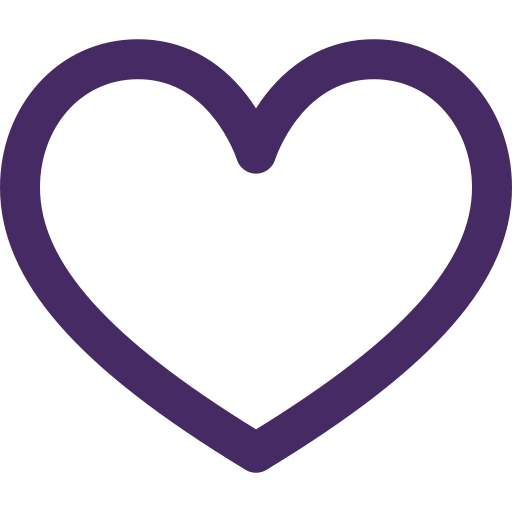
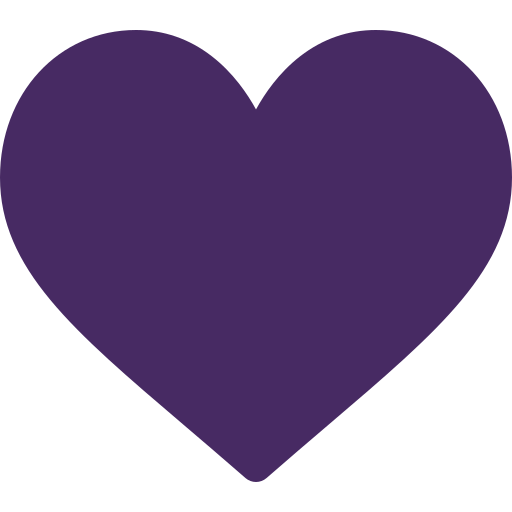
pintar like

diff --git a/src/components/Home.js b/src/components/Home.js
@@ -1,5 +1,5 @@
 import {
-  savePost, getPosts, deletePost, getPost, updatePost, addLike,
+  savePost, getPosts, deletePost, getPost, updatePost, addLike, disLike,
 } from '../lib/functionFirebase';
 
 export const Home = (onNavigate) => {
@@ -76,7 +76,7 @@ export const Home = (onNavigate) => {
 
       .then(() => {
       // console.log("adentro del then")
-        window.location.reload()
+        window.location.reload();
       });
     // console.log("afuera del then")
   };
@@ -111,7 +111,7 @@ export const Home = (onNavigate) => {
           </div>
             <textarea disabled class='textarea' id="${doc.id}" rows='4' >${publicacion.post}</textarea>
           <div class='divIconsFeed'>
-          ${publicacion.likes.length}<img class='iconoForm icon-like'  data-id="${doc.id}"  src='img/like.png'>
+          ${publicacion.likes.length}<img class='iconoForm icon-like'  data-id="${doc.id}"  src='img/dislike.png'>
            <img class='iconoForm' src='img/comment.png'>
            <img class='iconoForm icon-delete' data-id="${doc.id}" src='img/borrar.png'>
            <img class='iconoForm icon-edit' data-id="${doc.id}" src='img/editar.png'>
@@ -133,7 +133,7 @@ export const Home = (onNavigate) => {
           deletePost(dataset.id)
 
             .then(() => {
-            window.location.reload()
+              window.location.reload();
             });
         });
       });
@@ -153,7 +153,7 @@ export const Home = (onNavigate) => {
           // console.log(postContent);
 
           const textAreaEdit = document.getElementById(personalIdPost);
-          // console.log(textAreaEdit);
+          console.log(textAreaEdit);
 
           // Actualización de post
           if (!editando) {
@@ -181,16 +181,64 @@ export const Home = (onNavigate) => {
 
       // --------------------  Función para likear publicaciones   ---------------------------------
 
+      // Código para gestionar el click en los botones de "like"
+
       const iconLike = postFeed.querySelectorAll('.icon-like');
+      iconLike.forEach((icon) => {
+        let liked = false;
+
+        icon.addEventListener('click', async ({ target: { dataset } }) => {
+          const postId = dataset.id;
+          if (!liked) {
+            addLike(postId);
+            icon.src = 'img/like.png';
+            console.log('El documento si tiene like.');
+          } else {
+            console.log('El documento no tiene like.');
+            try {
+              await disLike(postId);
+              icon.src = 'img/dislike.png';
+            } catch (error) {
+              console.log('Error al obtener los datos:', error);
+            }
+          }
+          liked = !liked;
+        });
+      });
+
+      /* const iconLike = postFeed.querySelectorAll('.icon-like');
+      iconLike.forEach((icon) => {
+
+        icon.addEventListener('click', async ({ target: { dataset } }) => {
+
+          const postId = dataset.id;
+
+          try {
+          await addLike(postId);
+          //console.log(postId);
+          icon.src = 'img/like.png';
+          icon.addEventListener('click', async ({ target: { dataset } }) => {
+            //const postId = dataset.id;
+           disLike(postId);
+            icon.src = 'img/dislike.png';
+
+          });
+        } catch (error) {
+          console.log('Error al obtener los datos:', error);
+
+        }
+
+      });
+    }); */
+
+      /* const iconLike = postFeed.querySelectorAll('.icon-like');
       iconLike.forEach((icon) => {
         icon.addEventListener('click', async ({ target: { dataset } }) => {
           const postId = dataset.id;
           await addLike(postId);
           console.log(postId);
         });
-      });
-
-      // --------------- Función para quitar like de las publicaciones  ----------------
+      }); */
     });
   return main;
 };

diff --git a/src/lib/functionFirebase.js b/src/lib/functionFirebase.js
@@ -11,6 +11,7 @@ import {
   orderBy,
   query,
   arrayUnion,
+  arrayRemove,
 
 } from 'firebase/firestore';
 
@@ -54,26 +55,26 @@ export const getPost = (id) => getDoc(doc(db, 'post', id));
 export const updatePost = (id, newFields) => updateDoc(doc(db, 'post', id), newFields);
 
 // Dar like
-export const addLike = async (idPost) => {
+export const addLike = (idPost) => {
   const postRef = doc(db, 'post', idPost);
   const userEmail = auth.currentUser.email;
 
   // Atomically add a new region to the "regions" array field.
-  await updateDoc(postRef, {
+  updateDoc(postRef, {
     likes: arrayUnion(userEmail),
   });
 };
 
-/*
+
 // Dar dislike
-export const disLike = async (idPost) => {
+export const disLike = (idPost) => {
   const postRef = doc(db, 'post', idPost);
   const userEmail = auth.currentUser.email;
 
   // Atomically remove a region from the "regions" array field.
-  await updateDoc(postRef, {
+  updateDoc(postRef, {
     likes: arrayRemove(userEmail),
   });
  
 };
- */
+
